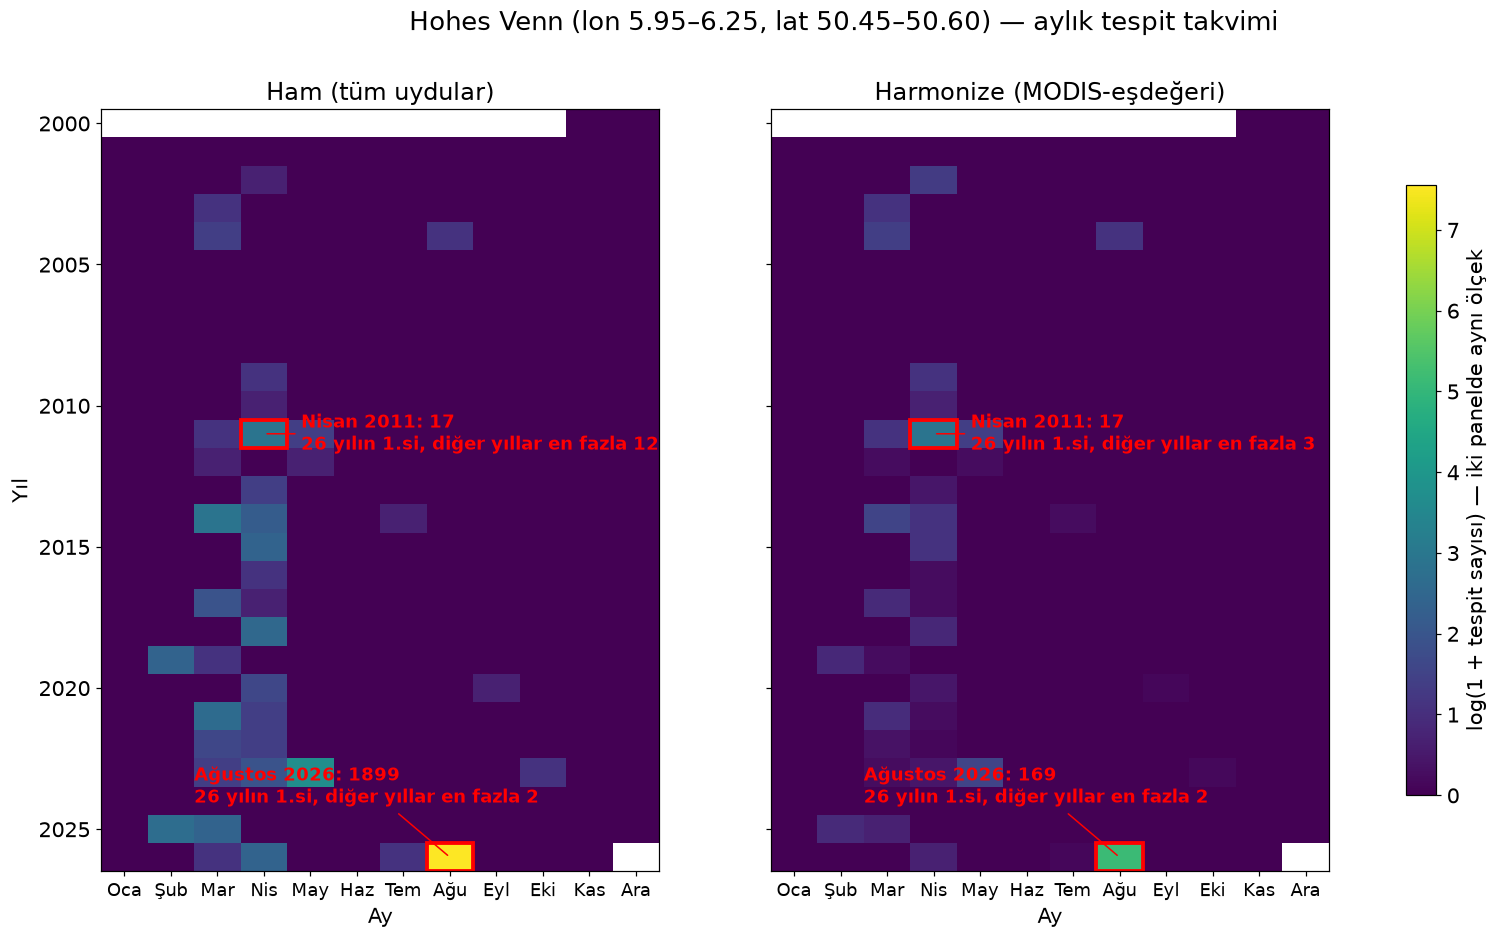
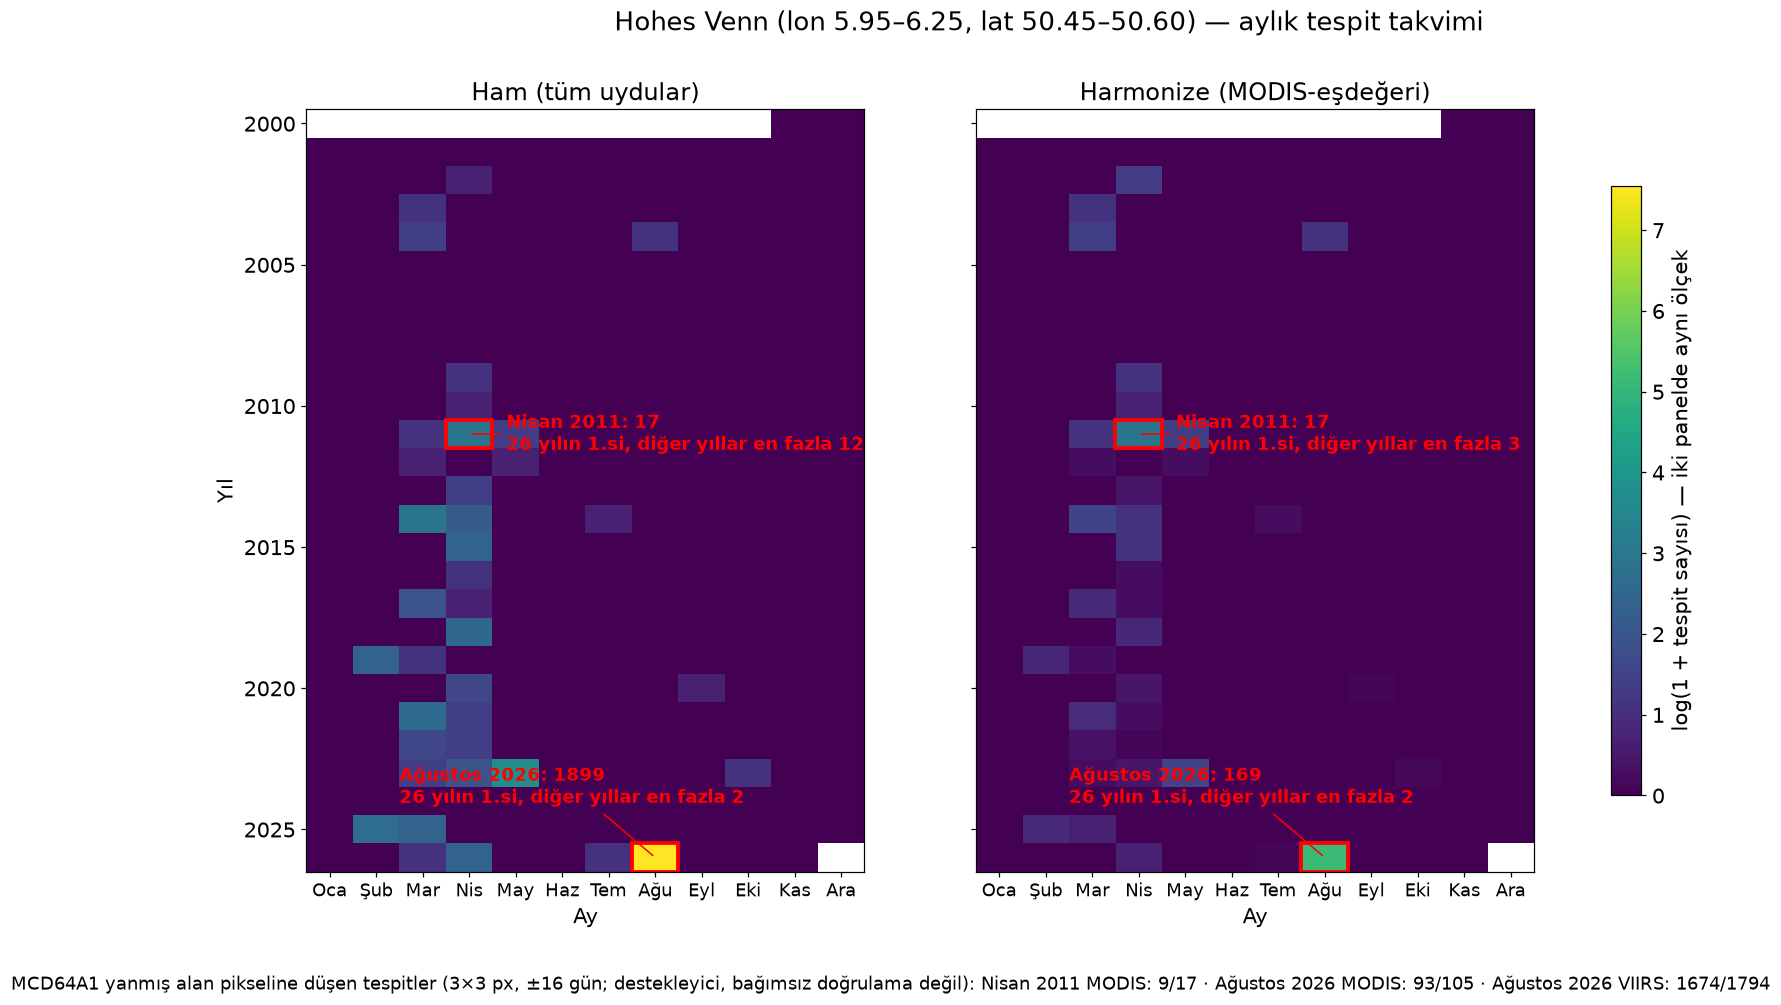
P3: MCD64A1 destekleyici kanıt (Venn)
- data/burned_area_check.csv (P1, 26fa38d) varsa summary.md'ye tablo + venn_check.png alt notu
- Nisan 2011 MODIS 9/17, Ağustos 2026 MODIS 93/105, VIIRS 1674/1794 (3×3 px, ±16 gün)
- Bağımsız doğrulama değil → metrics.json'a girmez; 'bilinmiyor' ≠ 'yanmamış' ayrı
- Etkiler: P6 (Venn slaytı)

diff --git a/pipeline/validate.py b/pipeline/validate.py
@@ -52,6 +52,10 @@ RAW_PATH = DATA / "hotspots.parquet"
 GRID_PATH = DATA / "monthly_grid.parquet"
 K_PATH = DATA / "k_factors.csv"
 MOCK_PATH = DATA / "mock" / "hotspots_mock.parquet"
+# P1 burned_area_check.py çıktısı (isteğe bağlı) — MCD64A1 destekleyici kanıt, metrik DEĞİL
+BURN_PATH = Path(os.environ.get("P3_BURN", DATA / "burned_area_check.csv"))
+BURN_STATUSES = {"burned_match", "unburned", "burned_other_time", "unknown", "no_data"}
+BURN_GROUPS = {"venn_2011": (2011, 4), "venn_2026": (2026, 8)}
 OUT = ROOT / "docs" / "validation"
 
 TRAIN_YEARS = range(2012, 2022)   # 2012–2021 (P2 k'yı buradan öğrenir)
@@ -296,7 +300,8 @@ def month_matrix(box: pd.DataFrame, values: pd.Series | None, ym_min, ym_max) ->
     return mat
 
 
-def venn_check(df: pd.DataFrame, is_mock: bool, has_harm: bool) -> list[dict]:
+def venn_check(df: pd.DataFrame, is_mock: bool, has_harm: bool,
+               burn: pd.DataFrame | None = None) -> list[dict]:
     """Kutu ile (region değil). Anomali/sıra: uygulamayla aynı fonksiyon (query.anomaly)."""
     sys.path.insert(0, str(ROOT / "app"))
     import query  # noqa: E402
@@ -348,6 +353,13 @@ def venn_check(df: pd.DataFrame, is_mock: bool, has_harm: bool) -> list[dict]:
     axes[0].set_ylabel("Yıl")
     fig.colorbar(im, ax=axes, label="log(1 + tespit sayısı) — iki panelde aynı ölçek", shrink=0.8)
     fig.suptitle("Hohes Venn (lon 5.95–6.25, lat 50.45–50.60) — aylık tespit takvimi", fontsize=17)
+    if burn is not None:
+        parts = []
+        for g, (y, m) in BURN_GROUPS.items():
+            for inst, r in burn.loc[g].iterrows() if g in burn.index.get_level_values(0) else []:
+                parts.append(f"{MONTH_TR[m - 1]} {y} {inst}: {r.burned_match}/{r.toplam}")
+        fig.text(0.42, 0.005, "MCD64A1 yanmış alan pikseline düşen tespitler (3×3 px, ±16 gün; destekleyici, "
+                 "bağımsız doğrulama değil): " + " · ".join(parts), ha="center", va="top", fontsize=12)
     watermark(fig, is_mock)
     fig.savefig(OUT / "venn_check.png", bbox_inches="tight")
     plt.close(fig)
@@ -417,6 +429,25 @@ def transfer_without_event(tables: dict[str, pd.DataFrame], has_harm: bool) -> d
     return out
 
 
+def burn_support() -> pd.DataFrame | None:
+    """MCD64A1 eşleşme özeti (grup × enstrüman). Yoksa None. Bağımsız doğrulama DEĞİL:
+    MCD64A1 algoritması MODIS aktif yangın verisini de kullanır (P1 notu) → sadece summary/figür notu."""
+    if not BURN_PATH.exists():
+        return None
+    b = pd.read_csv(BURN_PATH, usecols=["group", "instrument", "status"])
+    bad = set(b.status) - BURN_STATUSES
+    if bad:
+        raise ValueError(f"{BURN_PATH}: beklenmeyen status {sorted(bad)}")
+    badg = set(b.group) - set(BURN_GROUPS)
+    if badg:
+        raise ValueError(f"{BURN_PATH}: beklenmeyen group {sorted(badg)}")
+    t = b.groupby(["group", "instrument"]).status.value_counts().unstack(fill_value=0) \
+         .reindex(columns=sorted(BURN_STATUSES), fill_value=0)
+    t["toplam"] = t[sorted(BURN_STATUSES)].sum(axis=1)
+    t["bilinen"] = t.toplam - t.unknown - t.no_data   # "bilinmiyor" ≠ "yanmamış"
+    return t
+
+
 def ratio_diagnostics(df: pd.DataFrame) -> tuple[pd.DataFrame, pd.Series]:
     """Arjantin, ham veri: MODIS / (aktif VIIRS uydusu başına VIIRS) — yıl bazında ve 2022 aylık.
     Harmonizasyondan bağımsız: 2022 sapması (P2: harm/MODIS=1.18) kesintiden mi, yörünge kaymasından mı,
@@ -450,7 +481,7 @@ def fmt(v, spec=".2f"):
 
 
 def write_summary(rows, venn, is_mock, input_path, grid_note, k_note, breakdown, diag,
-                  tr_ev=None) -> str:
+                  tr_ev=None, burn=None) -> str:
     def get(method, region, scale="1deg", split="test"):
         return next(r for r in rows if r["method"] == method and r["region"] == region
                     and r["split"] == split and r["scale"] == scale)
@@ -506,6 +537,19 @@ def write_summary(rows, venn, is_mock, input_path, grid_note, k_note, breakdown,
     for v in venn:
         lines.append(f"| {v['mode']} | {v['year']}-{v['month']:02d} | {v['text']} | "
                      f"{'evet' if v['visible'] else 'hayır'} |")
+    if burn is not None:
+        lines += ["", "### Destekleyici kanıt: MCD64A1 yanmış alan (P1, `data/burned_area_check.csv`)", "",
+                  "Tespit, MCD64A1'in (aylık yanmış alan, ~500 m) ±16 gün içinde yanmış işaretlediği bir "
+                  "piksele (3×3 komşuluk ≈ 1,4 km) düşüyor mu? **Bağımsız doğrulama değildir**: MCD64A1 "
+                  "algoritması MODIS aktif yangın verisini de kullanır ve küçük yanıkları kaçırabilir. "
+                  "'bilinmiyor' (unknown/no_data) ≠ 'yanmamış'.", "",
+                  "| olay | enstrüman | eşleşti | yanmamış | başka zamanda yanık | bilinmiyor | toplam |",
+                  "|---|---|---|---|---|---|---|"]
+        for (g, inst), r in burn.iterrows():
+            y, m = BURN_GROUPS[g]
+            lines.append(f"| {MONTH_TR[m - 1]} {y} | {inst} | {r.burned_match} "
+                         f"({r.burned_match / r.toplam:.0%}) | {r.unburned} | {r.burned_other_time} | "
+                         f"{r.unknown + r.no_data} | {r.toplam} |")
 
     if not has_harm:
         text = "\n".join(lines) + "\n"
@@ -598,10 +642,11 @@ def main() -> None:
 
     plot_pred_vs_true(tables, rows, is_mock, has_harm)
     plot_annual(df, is_mock, has_harm)
-    venn = venn_check(df, is_mock, has_harm)
+    burn = burn_support()
+    venn = venn_check(df, is_mock, has_harm, burn)
     print(write_summary(rows, venn, is_mock, input_path, grid_note, k_note,
                         test_year_breakdown(df, has_harm), ratio_diagnostics(df),
-                        transfer_without_event(tables, has_harm)))
+                        transfer_without_event(tables, has_harm), burn))
 
     weak = [r for r in rows if r["method"] == "harm" and r["split"] == "test"
             and (r["r2"] is None or r["r2"] < 0.5)]

diff --git a/docs/validation/summary.md b/docs/validation/summary.md
@@ -102,6 +102,16 @@ oran = MODIS / (aktif VIIRS uydusu başına VIIRS). Harmonizasyondan bağımsız
 | harm | 2011-04 | 17 MODIS-eşdeğeri tespit — 26 yılın en yüksek Nisan ayı; aynı ayın diğer yıllardaki ortalamasının (≈0.6) 29 katı, diğer yılların en fazlası 3 | evet |
 | harm | 2026-08 | 169 MODIS-eşdeğeri tespit — 26 yılın en yüksek Ağustos ayı; aynı ayın diğer yıllardaki ortalamasının (≈0.1) 2.115 katı, diğer yılların en fazlası 2 | evet |
 
+### Destekleyici kanıt: MCD64A1 yanmış alan (P1, `data/burned_area_check.csv`)
+
+Tespit, MCD64A1'in (aylık yanmış alan, ~500 m) ±16 gün içinde yanmış işaretlediği bir piksele (3×3 komşuluk ≈ 1,4 km) düşüyor mu? **Bağımsız doğrulama değildir**: MCD64A1 algoritması MODIS aktif yangın verisini de kullanır ve küçük yanıkları kaçırabilir. 'bilinmiyor' (unknown/no_data) ≠ 'yanmamış'.
+
+| olay | enstrüman | eşleşti | yanmamış | başka zamanda yanık | bilinmiyor | toplam |
+|---|---|---|---|---|---|---|
+| Nisan 2011 | MODIS | 9 (53%) | 8 | 0 | 0 | 17 |
+| Ağustos 2026 | MODIS | 93 (89%) | 12 | 0 | 0 | 105 |
+| Ağustos 2026 | VIIRS | 1674 (93%) | 120 | 0 | 0 | 1794 |
+
 ## Sunum için 3 cümle (P6)
 
 1. Arjantin'de (eğitim bölgesi), eğitimde kullanılmayan 2022–2024 yıllarında harmonize VIIRS tahmini MODIS tespit sayısını 1° hücre-ay ölçeğinde R²=0.79 ile, toplamda +6.7% sapmayla tahmin ediyor.
